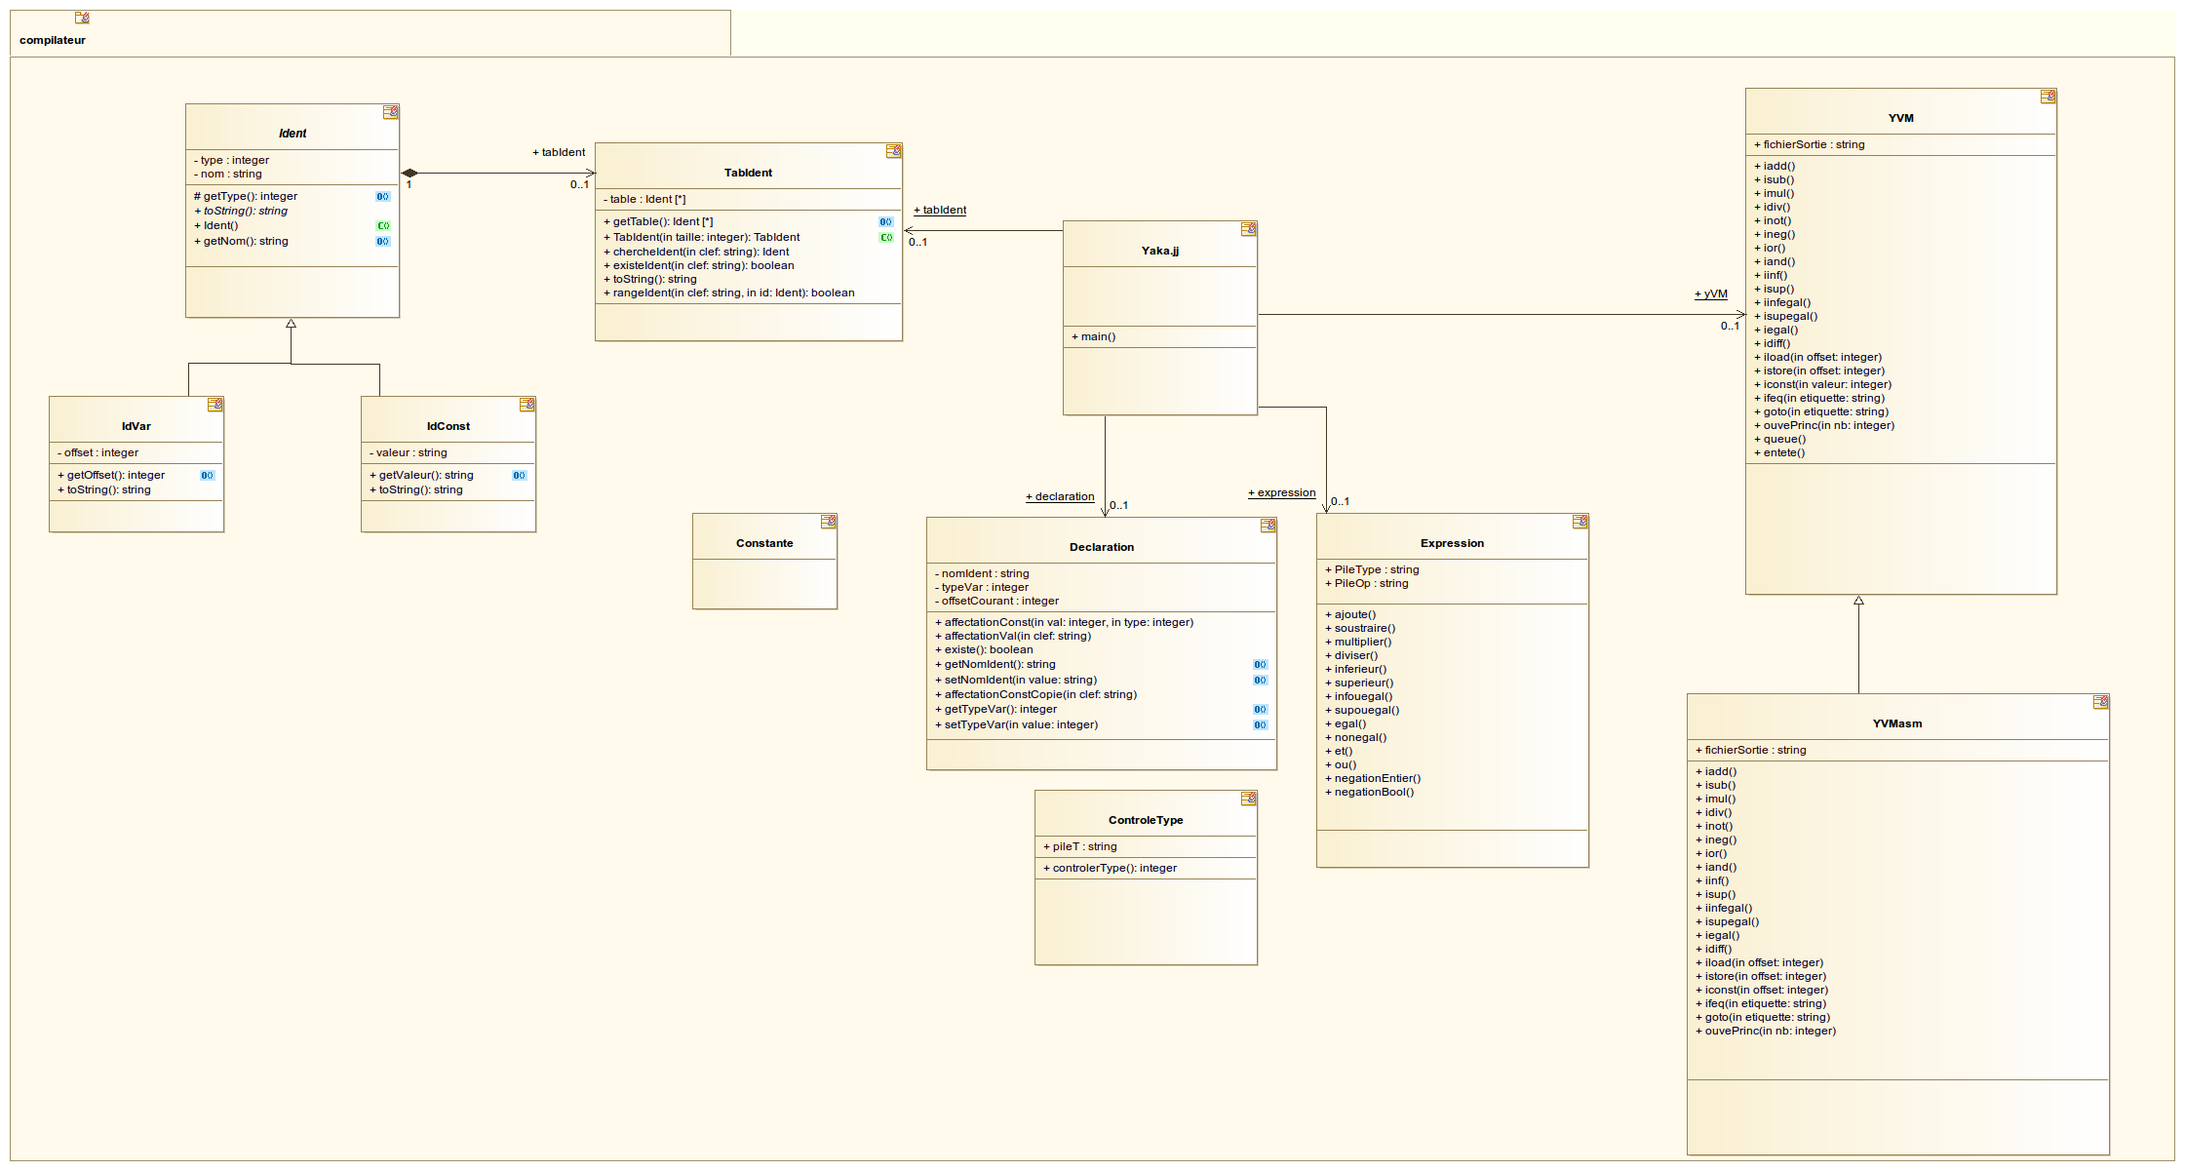
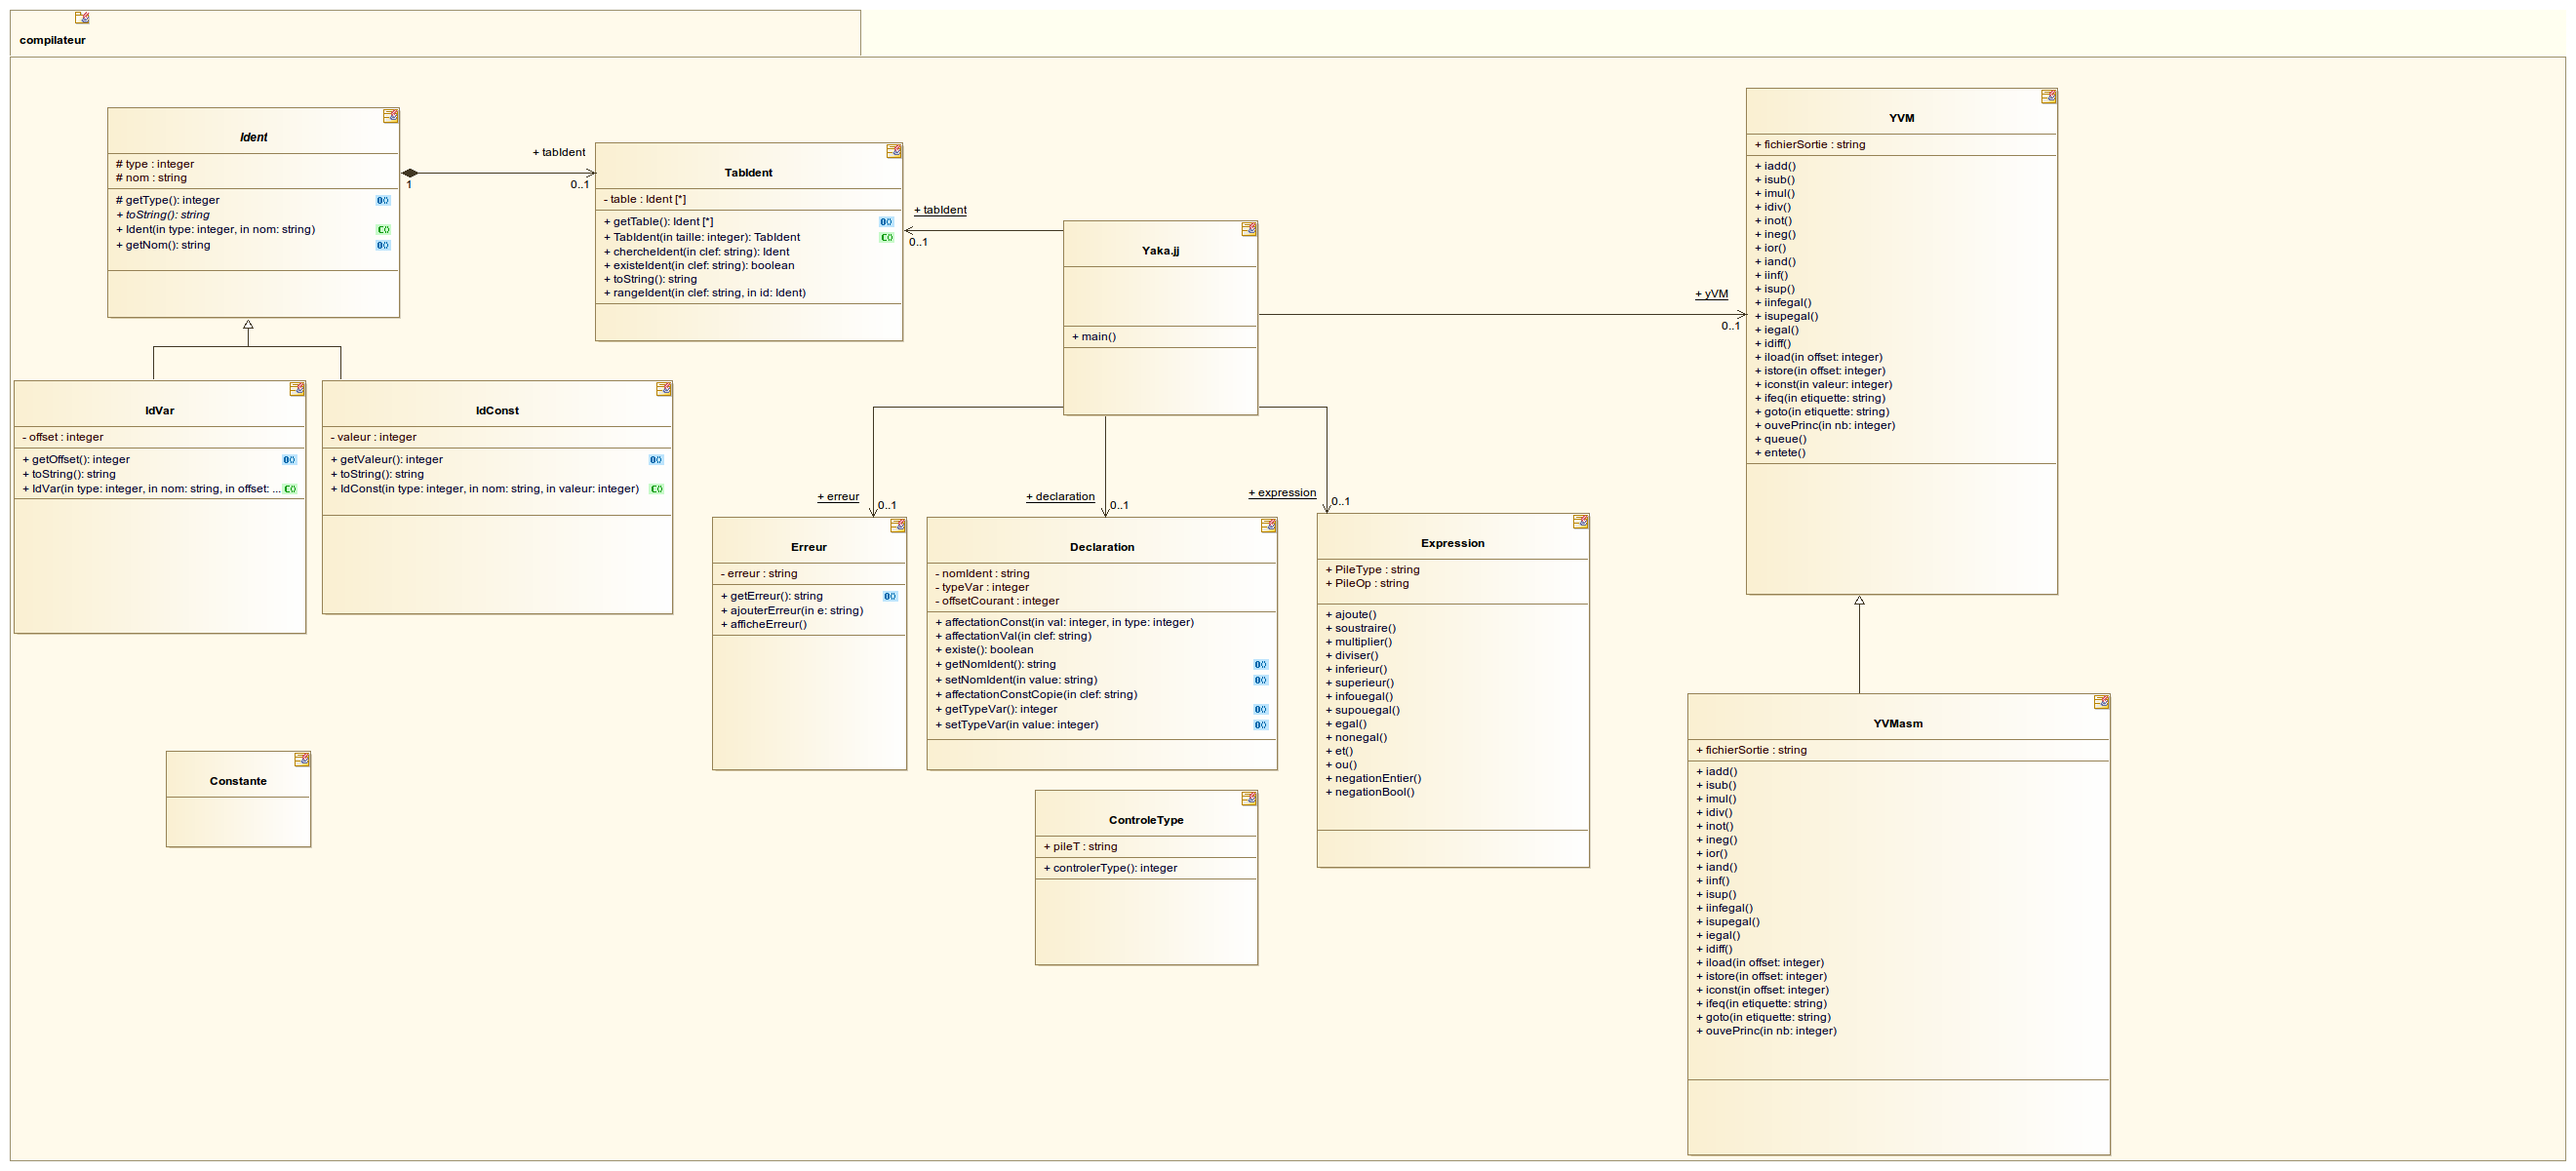
Mise à jour du diagramme UML

diff --git a/Projet compilateur/src/compilateur/IdVar.java b/Projet compilateur/src/compilateur/IdVar.java
@@ -5,24 +5,49 @@
  */
 package compilateur;
 
-
 /**
+ * Classe IdVar, représentation des identificateurs de variables
  * 
- * @author damienc
- *
+ * @author Samuel COZ - Damien Crémilleux - Lauriane HOLY - Arnaud TROUCHE
+ * 
  */
 public class IdVar extends Ident {
+
+    /**
+     * L'offset de la variable
+     */
     private int offset;
 
-
+    /**
+     * Accesseur à l'offset
+     * 
+     * @return l'offset
+     */
     public int getOffset() {
-        // Automatically generated method. Please delete this comment before entering specific code.
-        return this.offset;
+	return this.offset;
     }
 
+    /**
+     * Méthode toString
+     */
     public String toString() {
-        // TODO Auto-generated return
-        return null;
+	String t = new String();
+	switch (this.type) {
+	case Constante.T_BOOLEEN:
+	    t = "BOOLEEN";
+	    break;
+	case Constante.T_ENTIER:
+
+	    break;
+
+	default:
+	    break;
+	}
+	if (this.type == Constante.T_BOOLEEN) {
+	    t = "BOOLEEN";
+	} else
+
+	    return "VARIABLE :" + this.nom;
     }
 
 }

diff --git a/Projet compilateur/src/compilateur/Ident.java b/Projet compilateur/src/compilateur/Ident.java
@@ -14,10 +14,15 @@ package compilateur;
 public abstract class Ident {
 
     /**
+     * Nom de l'identificateur
+     */
+    protected String nom;
+
+    /**
      * Le type de l'Ident est défini par un int, indiqué dans la classe
      * Constante
      */
-    private int type;
+    protected int type;
 
     /**
      * Chaque Ident peut appartenir à un tabIdent

diff --git a/Projet compilateur/src/compilateur/IdConst.java b/Projet compilateur/src/compilateur/IdConst.java
@@ -2,10 +2,10 @@ package compilateur;
 
 
 public class IdConst extends Ident {
-    private String valeur;
+    private int valeur;
 
 
-    public String getValeur() {
+    public int getValeur() {
         // Automatically generated method. Please delete this comment before entering specific code.
         return this.valeur;
     }
